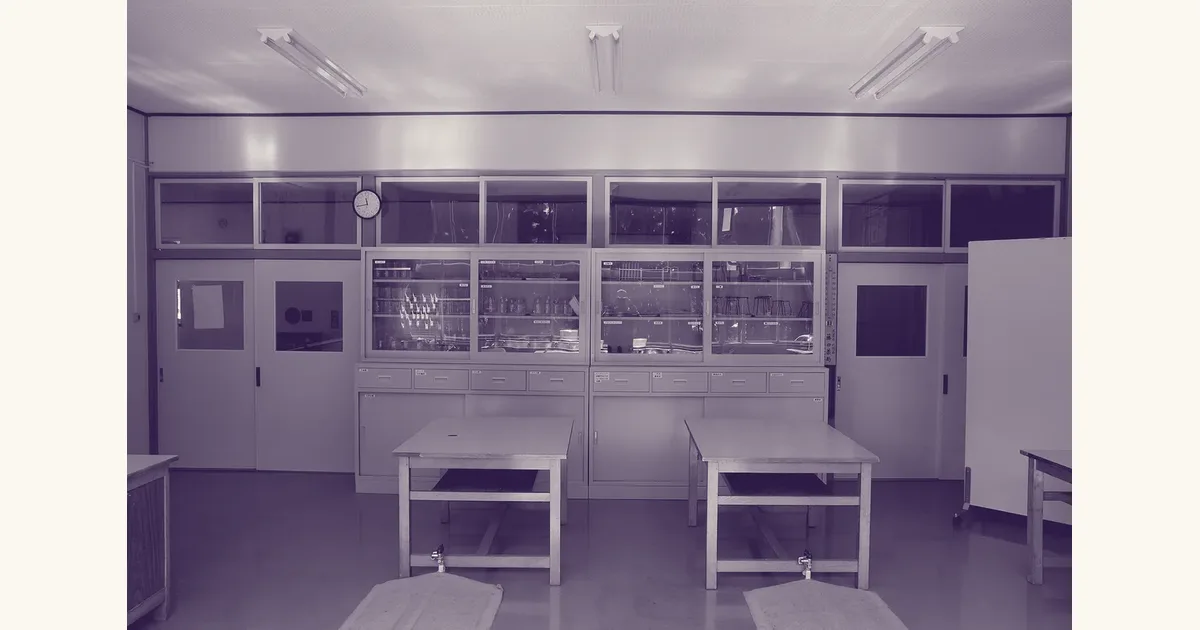
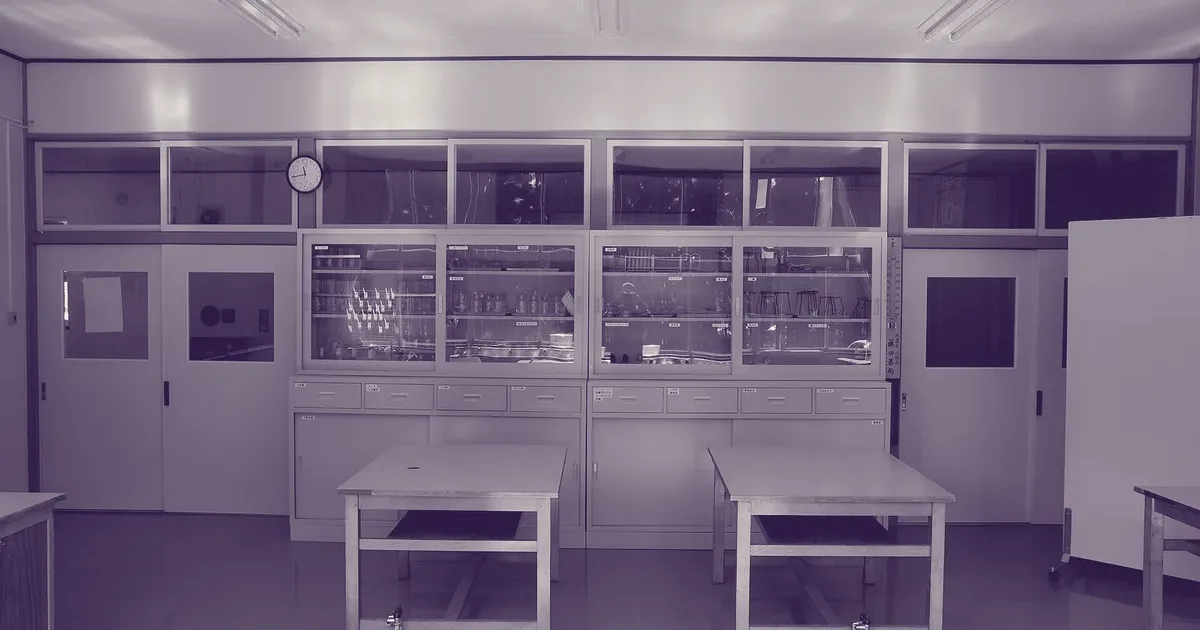
fix(vignettes): recadrer plutôt que letterboxer les images de partage des photos
La letterbox laissait deux bandes crème bien visibles sur les 18 vignettes Grand
oral, qui sont des photos en duotone occupant tout leur cadre. Sur nos
illustrations, dont le fond est déjà crème, ces bandes sont invisibles — d'où un
traitement qui dépend désormais de la nature de l'image et non de la rubrique.

Le critère est lu dans le frontmatter : `heroImage.sourceUrl` n'est renseigné que
pour les images tierces (Wikimedia Commons), jamais pour nos illustrations.

41 dérivés letterboxés (illustrations), 18 recadrés (photos).

diff --git a/tools/vignettes/VIGNETTE-SPEC.md b/tools/vignettes/VIGNETTE-SPEC.md
@@ -64,9 +64,19 @@ Deux pièges rencontrés :
   agrandit la bande : l'image reste entière, avec du crème autour — invisible, le fond
   des vignettes étant lui-même crème.
 
-Le dérivé OG est **letterboxé sur le crème** et non recadré : le 1,91:1 imposé par les
-réseaux amputait 21 % de l'image, or c'est cette version qui circule sur Pinterest.
-Régénération de tout le lot : `node scripts/regen-og-letterbox.mjs`.
+Le dérivé OG dépend de la **nature de l'image**, le 1,91:1 étant imposé par les réseaux :
+
+- **Illustration maison → letterbox** sur le crème. Le fond de la vignette étant déjà
+  crème, les bandes latérales sont invisibles et l'image est vue entière sur Pinterest.
+- **Photo tierce → recadrage centré.** Une photo occupe tout son cadre : la letterbox y
+  laisse deux bandes crème bien visibles, qui font sale.
+
+Le critère se lit dans le frontmatter : `heroImage.sourceUrl` n'est renseigné que pour
+les images tierces. Régénération du lot : `node scripts/regen-og-letterbox.mjs`.
+
+> Piège : composer l'image sur un canevas plus petit ne letterboxe pas — le dépassement
+> est simplement rogné, et on retombe exactement sur le recadrage qu'on voulait éviter.
+> Il faut un `-resize` (ou `fit: "inside"`) préalable.
 
 Reste les **9 anciennes vignettes pixel art en 16:9**, qui perdent ~16 % dans un
 conteneur 3:2. Elles disparaîtront à mesure qu'elles seront remplacées.
